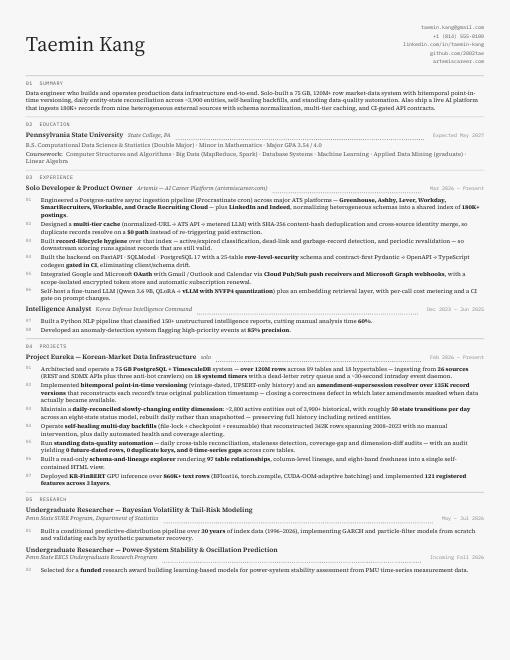
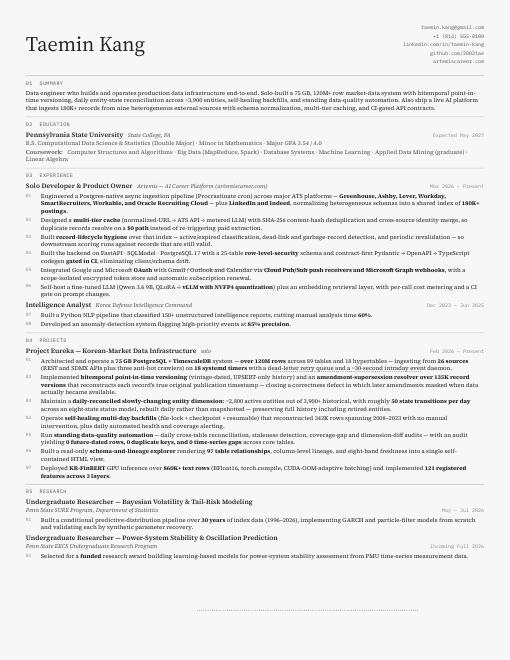
fitz

Changed region(s): [[0.0294, 0.2121, 0.9412, 0.8788]]

diff --git a/src/render.ts b/src/render.ts
@@ -93,7 +93,9 @@ export function render(ir: ResumeIR, opts: RenderOptions = {}): RenderResult {
     const d = dates ? `<span class="rz-dates" data-raw="${esc(dates)}">${esc(dates)}</span>` : "";
     // orgFirst 는 org·dates·title 순: 날짜가 org 와 같은 줄 흐름에 있어야 pdfminer 류가 떼어내지 않는다(실측)
     const parts = allowOrgFirst && opts.layout?.orgFirst && o ? [o, d, t] : [t, ...(o ? [o] : []), d];
-    return `<div class="rz-entry-head">${parts.join("")}</div>`;
+    // 인접 span 사이 공백: 단어 경계는 마크업이 싣는다. margin 만으로 벌리면 margin 을 무시하는 조판기(fitz)에서
+    // "AnalystKorea Defense" 로 붙는다(Artemis 실측). flex/grid 헤드는 공백 텍스트 노드를 렌더하지 않아 시각 무영향.
+    return `<div class="rz-entry-head">${parts.filter(Boolean).join(" ")}</div>`;
   };
 
   const section = (key: SectionKey, inner: string): string =>
@@ -105,7 +107,7 @@ export function render(ir: ResumeIR, opts: RenderOptions = {}): RenderResult {
   const b = ir.basics ?? {};
   if (!b.name) warn("MISSING_NAME", "basics.name is missing; header name omitted", "basics.name");
   const contacts = (b.contacts ?? []).map(asContact)
-    .map((c) => `<li class="rz-contact" data-kind="${esc(c.kind)}">${esc(c.value)}</li>`).join("");
+    .map((c) => `<li class="rz-contact" data-kind="${esc(c.kind)}">${esc(c.value)}</li>`).join(" ");
   const summaryInHeader = !!opts.layout?.summaryInHeader && !!ir.summary?.text && order.includes("summary");
   const header =
     `<header class="rz-basics">` +
@@ -142,7 +144,7 @@ export function render(ir: ResumeIR, opts: RenderOptions = {}): RenderResult {
           return `<div class="rz-entry">` +
             headHtml(ed.school, ed.location, dateRaw(ed.dates)) +
             (sub ? `<p class="rz-sub">${esc(sub)}</p>` : "") +
-            (ed.coursework?.length ? `<p class="rz-coursework"><span class="rz-kicker">Coursework</span>${esc(ed.coursework.join(" · "))}</p>` : "") +
+            (ed.coursework?.length ? `<p class="rz-coursework"><span class="rz-kicker">Coursework</span> ${esc(ed.coursework.join(" · "))}</p>` : "") +
             bulletsHtml(bs, `education[${i}]`) + `</div>`;
         }).join("");
         out.push(section(key, inner));
@@ -193,9 +195,9 @@ export function render(ir: ResumeIR, opts: RenderOptions = {}): RenderResult {
           ? [{ items: raw as string[] }] : (raw as SkillGroup[]);
         // 스킬은 하나의 그리드로: 라벨 열이 가장 긴 라벨 폭으로 정렬된다 (docs/page-policy-contract.md §7)
         const inner = groups.map((g) =>
-          `<span class="rz-kicker">${g.label ? esc(g.label) : ""}</span>` +
+          `<span class="rz-kicker">${g.label ? esc(g.label) : ""}</span> ` +
           `<span class="rz-skill-items">${esc(g.items.join(" · "))}</span>`
-        ).join("");
+        ).join(" ");
         out.push(`<section class="rz-section" data-section="skills">` +
           `<h2 class="rz-section-label">${esc(labels.skills)}</h2>` +
           `<div class="rz-entries rz-skills${opts.layout?.skillsGrid ? " rz-skills--grid" : ""}">${inner}</div></section>`);

diff --git a/themes/plain/theme.css b/themes/plain/theme.css
@@ -2,7 +2,8 @@
    fitz.Story 의 CSS 지원 범위가 불확실하므로(이 환경엔 PyMuPDF 없음) 가장 보수적으로 쓴다:
    블록·인라인·마진·폰트·색·네이티브 리스트만. flex/grid/커스텀 프로퍼티/의사요소 **없음**.
    구분자가 필요한 자리는 여백으로 대신한다. Artemis 의 fitz 프로브가 이 파일의 유일한 검증이다. */
-.rz{padding:48px 54px;background:#fff;color:#111;font-family:Helvetica,Arial,sans-serif;font-size:10.5px;line-height:1.35}
+.rz{padding:48px 54px;background:#fff;color:#111;font-family:Helvetica,Arial,sans-serif;font-size:10.5px;line-height:1.35;
+  font-variant-ligatures:none}   /* fi → U+FB01 로 추출되는 것 방지 (fitz 가 존중하는지 프로브 필요) */
 .rz-basics{margin-bottom:10px;padding-bottom:6px;border-bottom:1px solid #111}
 .rz-name{margin:0 0 3px;font-size:22px;font-weight:700}
 .rz-headline{margin:0 0 3px;color:#444}

diff --git a/tools/visual_check.py b/tools/visual_check.py
@@ -31,6 +31,9 @@ def main():
     ir = json.loads((ROOT / "fixtures/dense.json").read_text())
     params = json.loads((ROOT / "tools/visual-ref/params.json").read_text()) if (REF / "params.json").exists() else {}
     themes = sorted(d.name for d in (ROOT / "themes").iterdir() if d.is_dir())
+    import weasyprint
+    if not update and params.get("_weasyprint") and params["_weasyprint"] != weasyprint.__version__:
+        print(f"  ! baseline was made with WeasyPrint {params['_weasyprint']}, this is {weasyprint.__version__} — line-height rounding differs between versions; expect drift. Re-baseline with --update after confirming visually.")
     if only: themes = [t for t in themes if t in only]
     REF.mkdir(exist_ok=True)
     fails = 0
@@ -52,6 +55,7 @@ def main():
             fails += 1
             diff.save(REF / f"{t}.diff.png")
         print(f"  {t:12s} {'ok  ' if ok else 'FAIL'} changed={changed:5.2f}%  {'' if ok else '→ ' + str(REF / f'{t}.diff.png')}")
+    import weasyprint as _w; params["_weasyprint"] = _w.__version__
     (REF / "params.json").write_text(json.dumps(params, indent=1))
     print("PASS" if not fails else f"FAIL — {fails} theme(s) changed beyond {THRESH}%")
     sys.exit(1 if fails else 0)
